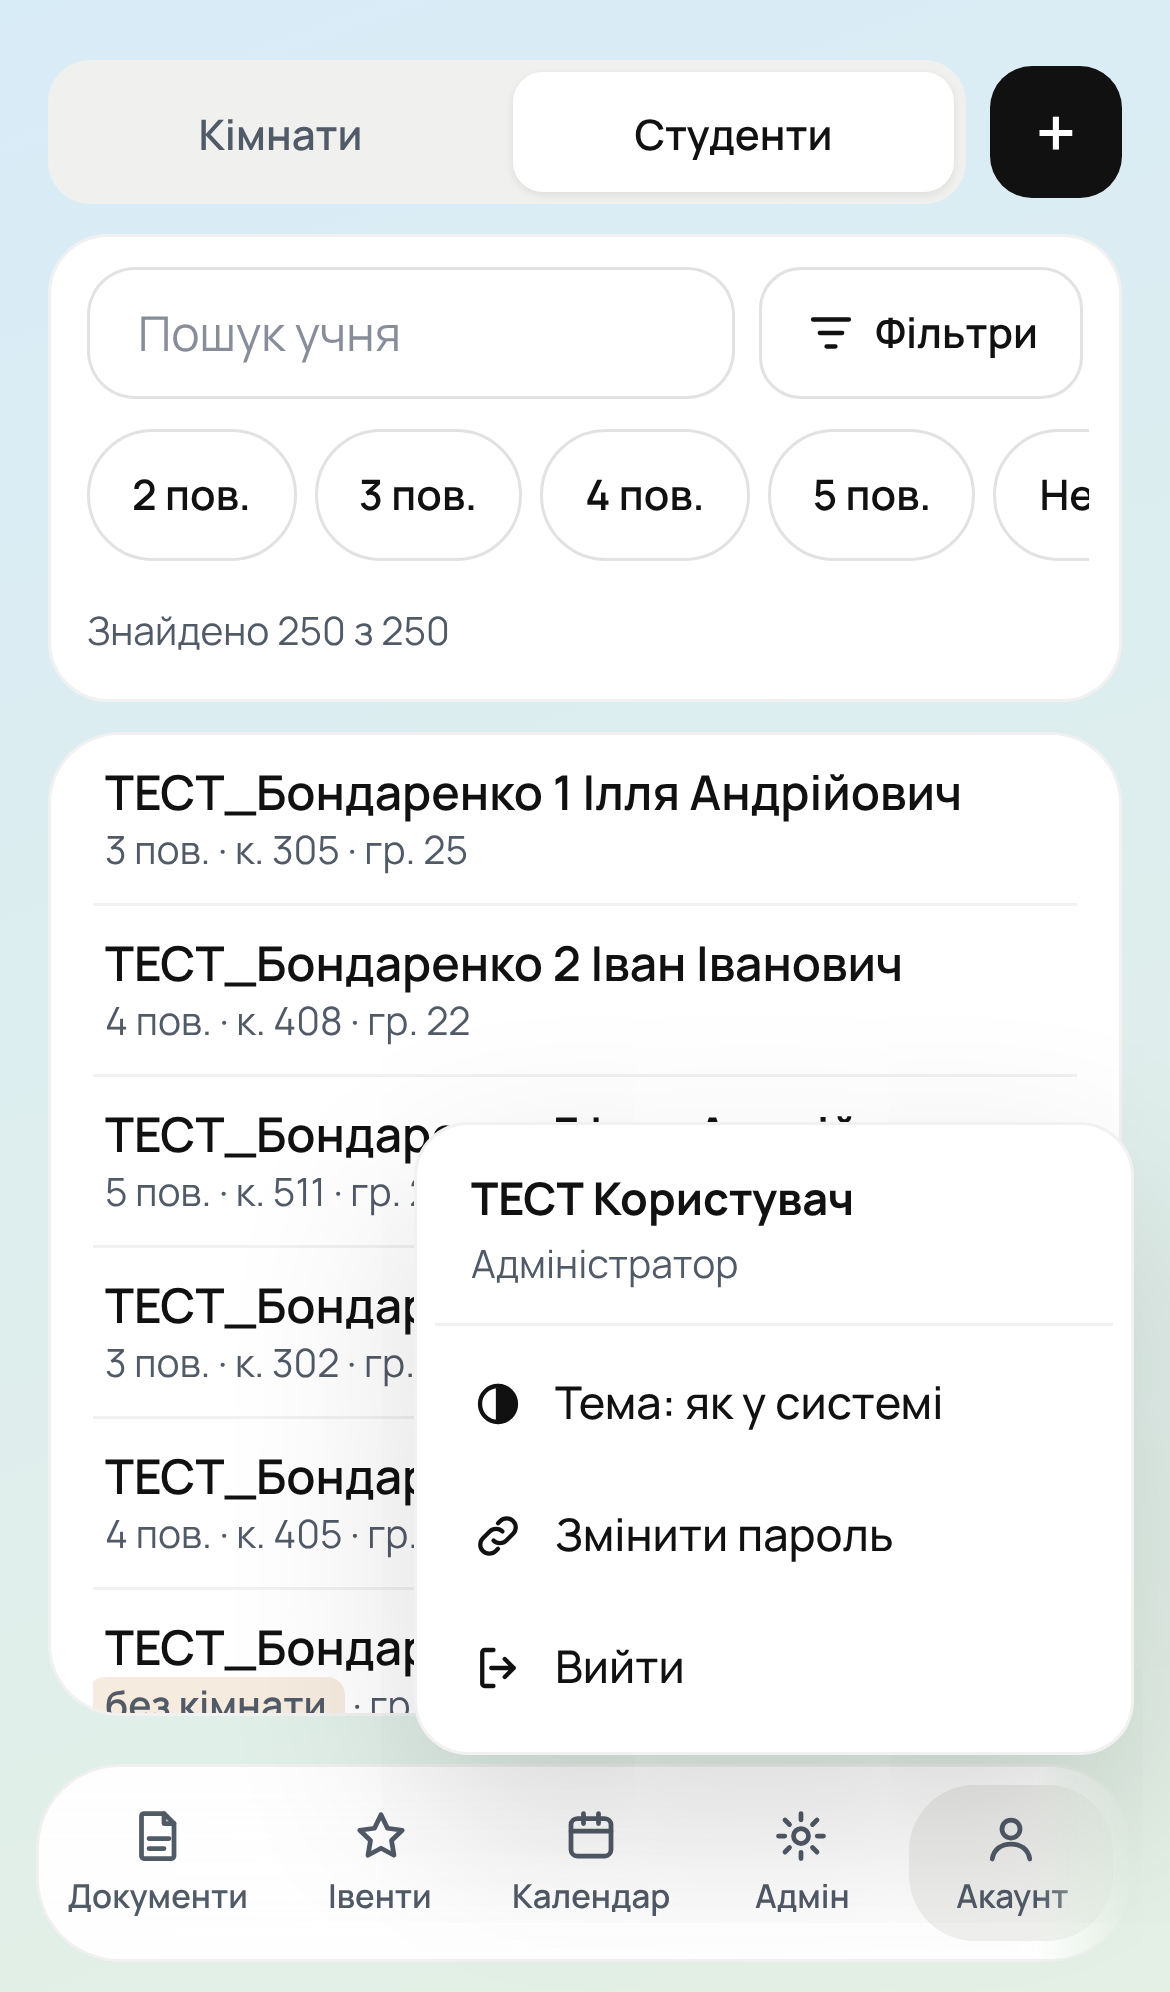
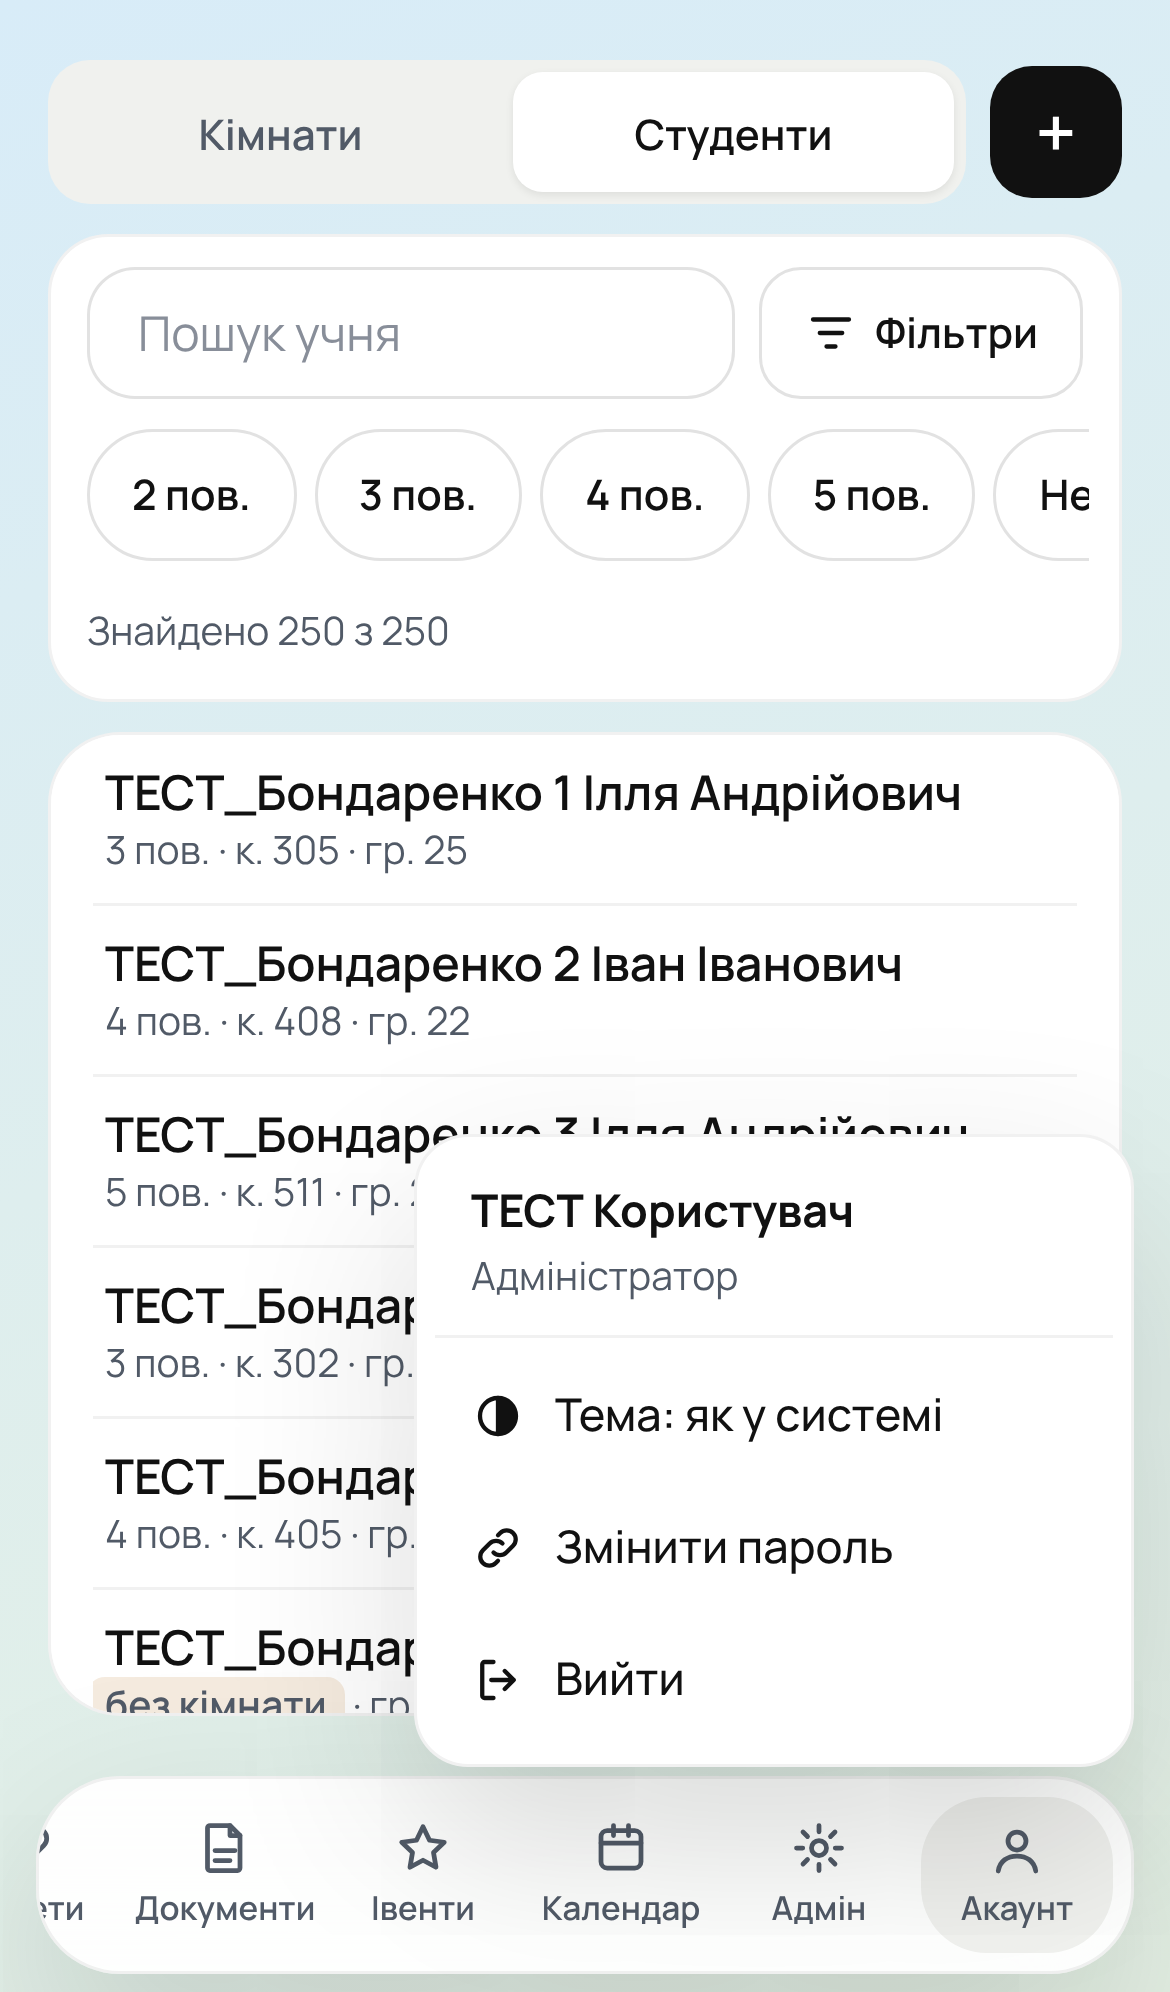
Мобільна: ховер лише для миші (чіпи читабельні), нижнє меню на всю ширину без маски і нижче
Claude-Session: https://claude.ai/code/session_0179mcXG9UhznU63hvADD4UN

diff --git a/src/features/students-list/studentsList.css b/src/features/students-list/studentsList.css
@@ -3,13 +3,15 @@
 .sl-search { display: flex; gap: 8px; margin: 0; }
 .sl-search input[type='search'] { flex: 1 1 auto; min-width: 0; min-height: 44px; margin: 0; font-size: 16px; }
 .sl-filter-btn { flex: none; position: relative; display: inline-flex; align-items: center; gap: 6px; min-height: 44px; padding: 0 14px; border-radius: 14px; background: transparent; color: var(--text); border: 1px solid var(--fieldBorder); font-size: 14px; }
-.sl-filter-btn:hover:not(:disabled) { background: var(--muted); opacity: 1; }
+@media (hover: hover) { .sl-filter-btn:hover:not(:disabled) { background: var(--muted); opacity: 1; } }
+.sl-filter-btn:active:not(:disabled) { background: var(--muted); }
 .sl-badge { min-width: 20px; height: 20px; padding: 0 6px; border-radius: 999px; background: var(--text); color: var(--surface); font-size: 12px; font-weight: 700; line-height: 20px; text-align: center; }
 .sl-chips { display: flex; gap: 6px; overflow-x: auto; scrollbar-width: none; margin: 0 -2px; padding: 2px; }
 .sl-chips::-webkit-scrollbar { display: none; }
 .sl-chip { flex: none; min-height: 44px; min-width: 44px; padding: 0 14px; border-radius: 999px; background: transparent; color: var(--text); border: 1px solid var(--fieldBorder); font-size: 14px; font-weight: 600; }
-.sl-chip:hover:not(:disabled) { background: var(--muted); opacity: 1; }
-.sl-chip.on { background: var(--text); color: var(--surface); border-color: var(--text); }
+/* ховер — лише для миші: на дотик він «залипав» і світлий фон при білому тексті робив вибраний чіп нечитабельним */
+@media (hover: hover) { .sl-chip:not(.on):hover:not(:disabled) { background: var(--muted); opacity: 1; } }
+.sl-chip.on, .sl-chip.on:hover:not(:disabled) { background: var(--text); color: var(--surface); border-color: var(--text); opacity: 1; }
 .sl-count { display: flex; align-items: center; justify-content: space-between; gap: 8px; min-height: 28px; font-size: 13px; color: var(--text2Hi); }
 .sl-reset { min-height: 44px; margin: -8px -6px; padding: 0 10px; background: none; border: 0; color: var(--outInk); font-size: 14px; font-weight: 600; }
 

diff --git a/src/styles/ux-mobile.css b/src/styles/ux-mobile.css
@@ -141,3 +141,19 @@ html[data-theme='dark'] { color-scheme: dark; }
   .form-actions { padding: 10px; border: 1px solid var(--border); border-radius: 22px; box-shadow: var(--shadowPop);
     background: color-mix(in oklch, var(--surface) 94%, transparent); backdrop-filter: blur(12px); -webkit-backdrop-filter: blur(12px); }
 }
+
+/* Нижнє меню телефона: пункти рівномірно на всю ширину, нижче до краю (в межах безпечної зони), без градієнтного «підтирання» справа */
+@media (max-width: 760px), (pointer: coarse) and (max-height: 500px) {
+  :root { --tab-bottom: max(calc(env(safe-area-inset-bottom) - 14px), 6px); }
+  .shell-panel { padding-bottom: calc(var(--tab-bottom) + 78px); }
+  .tabs-m { bottom: var(--tab-bottom); mask-image: none; -webkit-mask-image: none; justify-content: space-between; }
+  .tab-m { flex: 1 1 0; min-width: 64px; }
+  .row.sticky-actions { bottom: calc(var(--tab-bottom) + 78px); }
+}
+@media (max-width: 560px) { .form-actions { bottom: calc(var(--tab-bottom) + 78px); } }
+/* ховер лише для миші: на дотик не залипає */
+@media (hover: none) {
+  button:hover:not(:disabled), a.btn:hover { opacity: 1; }
+  .chip:hover:not(:disabled) { background: transparent; }
+  .chip.on:hover:not(:disabled) { background: var(--muted); }
+}

diff --git a/ux-audit/REPORT.md b/ux-audit/REPORT.md
@@ -36,6 +36,9 @@
 | U-28 | Адміністрування | всі | Напис-заглушка «Розділ у розробці.» над робочими блоками | `#/admin` | низька | **не виправлено** — питання власнику |
 
 Автоаналіз верстки: `node e2e/layout-lint.mjs` (накладання, злипання, обрізання, дрібні зони, горизонтальний скрол; 360/768/1440 × 11 екранів).
+| U-29 | Студенти, телефон | iPhone | Вибраний чіп поверху після дотику нечитабельний: `:hover` залипає (світлий фон + білий текст) | натиснути «4 пов.» | висока | **виправлено**: ховер лише для миші (`@media (hover: hover)`), глобально вимкнено залипання hover для кнопок/чіпів на touch; e2e на контраст |
+| U-30 | Нижнє меню, телефон | iPhone | Пункти не на всю ширину, градієнтна маска справа, меню високо над краєм | — | низька | **виправлено**: рівномірні пункти, без маски, нижче (`--tab-bottom`) |
+| U-31 | «+» у вихователя | iPhone | У PIN-сесії (права вихователя) є лише «Додати учня», тому «+» одразу відкриває форму — за задумом прав (кімнати додає лише адмін) | — | — | пояснення, не помилка |
 
 ## Не перевірено
 Живі дані/RLS/реальні помилки Supabase, публічна анкета `#/form/:token` з реальним токеном, затвердження оновлень, діалоги кімнат, перегляд документів (docx), клавіатура на реальному пристрої, контраст (автоматично не вимірювався).
